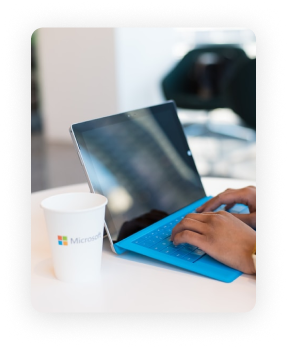
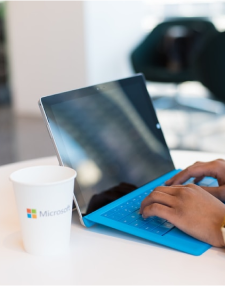
Corrections in gallery

diff --git a/src/components/homepage/Gallery.jsx b/src/components/homepage/Gallery.jsx
@@ -7,29 +7,29 @@ function Gallery(){
             title="Gallery"
             description="We focus on ergonomics and meeting you where you work. It's only a keystroke away."/>
             <div className="grid-rows-1 w-4/5">
-            <div className="grid items-center grid-cols-1 m-5 sm:grid-cols-2 lg:grid-cols-4">
+            <div className="grid w-full items-center grid-cols-1 m-5 sm:grid-cols-2 lg:grid-cols-4">
                 <div>
-                    <img src="src\assets\g1.png" alt="Image 1" className="w-full h-64 object-cover rounded-md"/>
+                    <img src="src\assets\g1.png" alt="Image 1" className="h-64 object-cover m-3 rounded-md"/>
                 </div>
                 <div>
-                    <img src="src\assets\g2.png" alt="Image 2" className="w-full h-64 object-cover rounded-md"/>
+                    <img src="src\assets\g2.png" alt="Image 2" className=" h-64 object-cover m-3 rounded-md"/>
                 </div>
                 <div>
-                    <img src="src\assets\g3.png" alt="Image 3" className="w-full h-64 object-cover rounded-md"/>
+                    <img src="src\assets\g3.png" alt="Image 3" className=" h-64 object-cover m-3 rounded-md"/>
                 </div>
                 <div>
-                    <img src="src\assets\g4.png" alt="Image 4" className="w-full h-64 object-cover rounded-md"/>
+                    <img src="src\assets\g4.png" alt="Image 4" className="h-64 object-cover m-3 rounded-md"/>
                 </div>
             </div>
-            <div className="grid m-6 grid-cols-1 sm:grid-cols-2 lg:grid-cols-3">
+            <div className="grid w-full gap-5 items-center grid-cols-1 m-5 sm:grid-cols-2 lg:grid-cols-3">
                 <div>
-                    <img src="src\assets\g5.png" alt="Image 1" className="w-full h-64 object-cover rounded-lg"/>
+                    <img src="src\assets\g5.png" alt="Image 1" className="w-full h-64 object-cover m-3 rounded-md"/>
                 </div>
                 <div>
-                    <img src="src\assets\g6.png" alt="Image 2" className="w-full h-64 object-cover rounded-[50px]"/>
+                    <img src="src\assets\g6.png" alt="Image 2" className="w-full h-64 object-cover m-3 rounded-md"/>
                 </div>
                 <div>
-                    <img src="src\assets\g7.png" alt="Image 3" className="w-full h-64 object-cover rounded-[50px]"/>
+                    <img src="src\assets\g7.png" alt="Image 3" className="w-full h-64 object-cover m-3 rounded-md"/>
                 </div>
             </div>
             </div>
